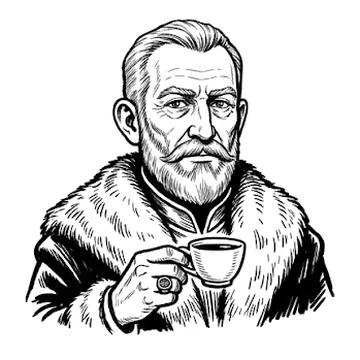
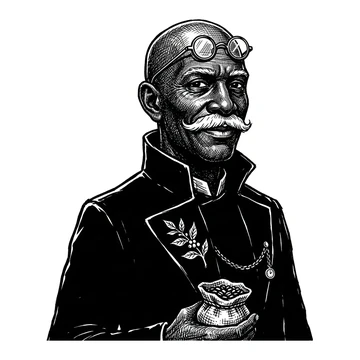
Gente de Java: troca os retratos do Barão de Java e do Valdo

diff --git a/notas/prompts-artes.md b/notas/prompts-artes.md
@@ -335,7 +335,7 @@ python campanhas/aethelgard/recortar_retratos.py grade-java.png barao-java tonho
 
 | Nº | NPC | Onde aparece |
 |---|---|---|
-| 1 | Barão de Java | guia de Aethelgard |
+| 1 | Valdo Dovel (era o Barão; veja Troca, abaixo) | guia de Aethelgard |
 | 2 | Tonho | sessão 1 (Centro de Distribuição) |
 | 3 | Maren Dovel | sessão 1, Viagem (o retrato falado) |
 | 4 | Odo, o moleiro | sessão 1 |
@@ -352,13 +352,15 @@ python campanhas/aethelgard/recortar_retratos.py grade-java.png barao-java tonho
 | 15 | Zarek, o feitor | Mina da Treva |
 | 16 | Marta | Mina da Treva |
 
-**Avulso: Valdo Dovel** (`valdo`, guia de Aethelgard). Use o prompt de retrato único com esta linha:
+**Troca.** O retrato 1 da grade (barão grisalho com a xícara) virou o **Valdo Dovel** (`valdo`), e o avulso abaixo virou o **Barão de Java** (`barao-java`), por causa da piada com o Djavan.
+
+**Avulso: Barão de Java** (`barao-java`, guia de Aethelgard). Use o prompt de retrato único com esta linha:
 
 > A lean, tall human coffee merchant in his late fifties with deep dark brown skin rendered in dense crosshatching, a shaved head, a thick white mustache, round wire spectacles pushed up on his forehead, a long high-collared coat with a coffee-branch embroidery on the lapel, a pocket watch chain across his chest, holding a small burlap pouch of coffee beans, a warm, wise half-smile.
 
 Na primeira tentativa saiu parecido com o Tonho. Ao gerar retratos de um mesmo lugar, varie tom de pele, idade, corpo, cabelo e roupa de propósito; só "human" faz o Gemini repetir o mesmo homem branco de barba.
 
-Salve em `campanhas/aethelgard/retratos/valdo.png` e troque o quadro vazio de `docs/assets/images/aethelgard/npcs/valdo.webp` por ele (360 × 360, webp).
+Feito: está em `campanhas/aethelgard/retratos/barao-java.png` e em `docs/assets/images/aethelgard/npcs/barao-java.webp` (360 × 360).
 
 **Grade 2: Torre Vermelha, os que faltam** (5 retratos, 3 × 2).
 
